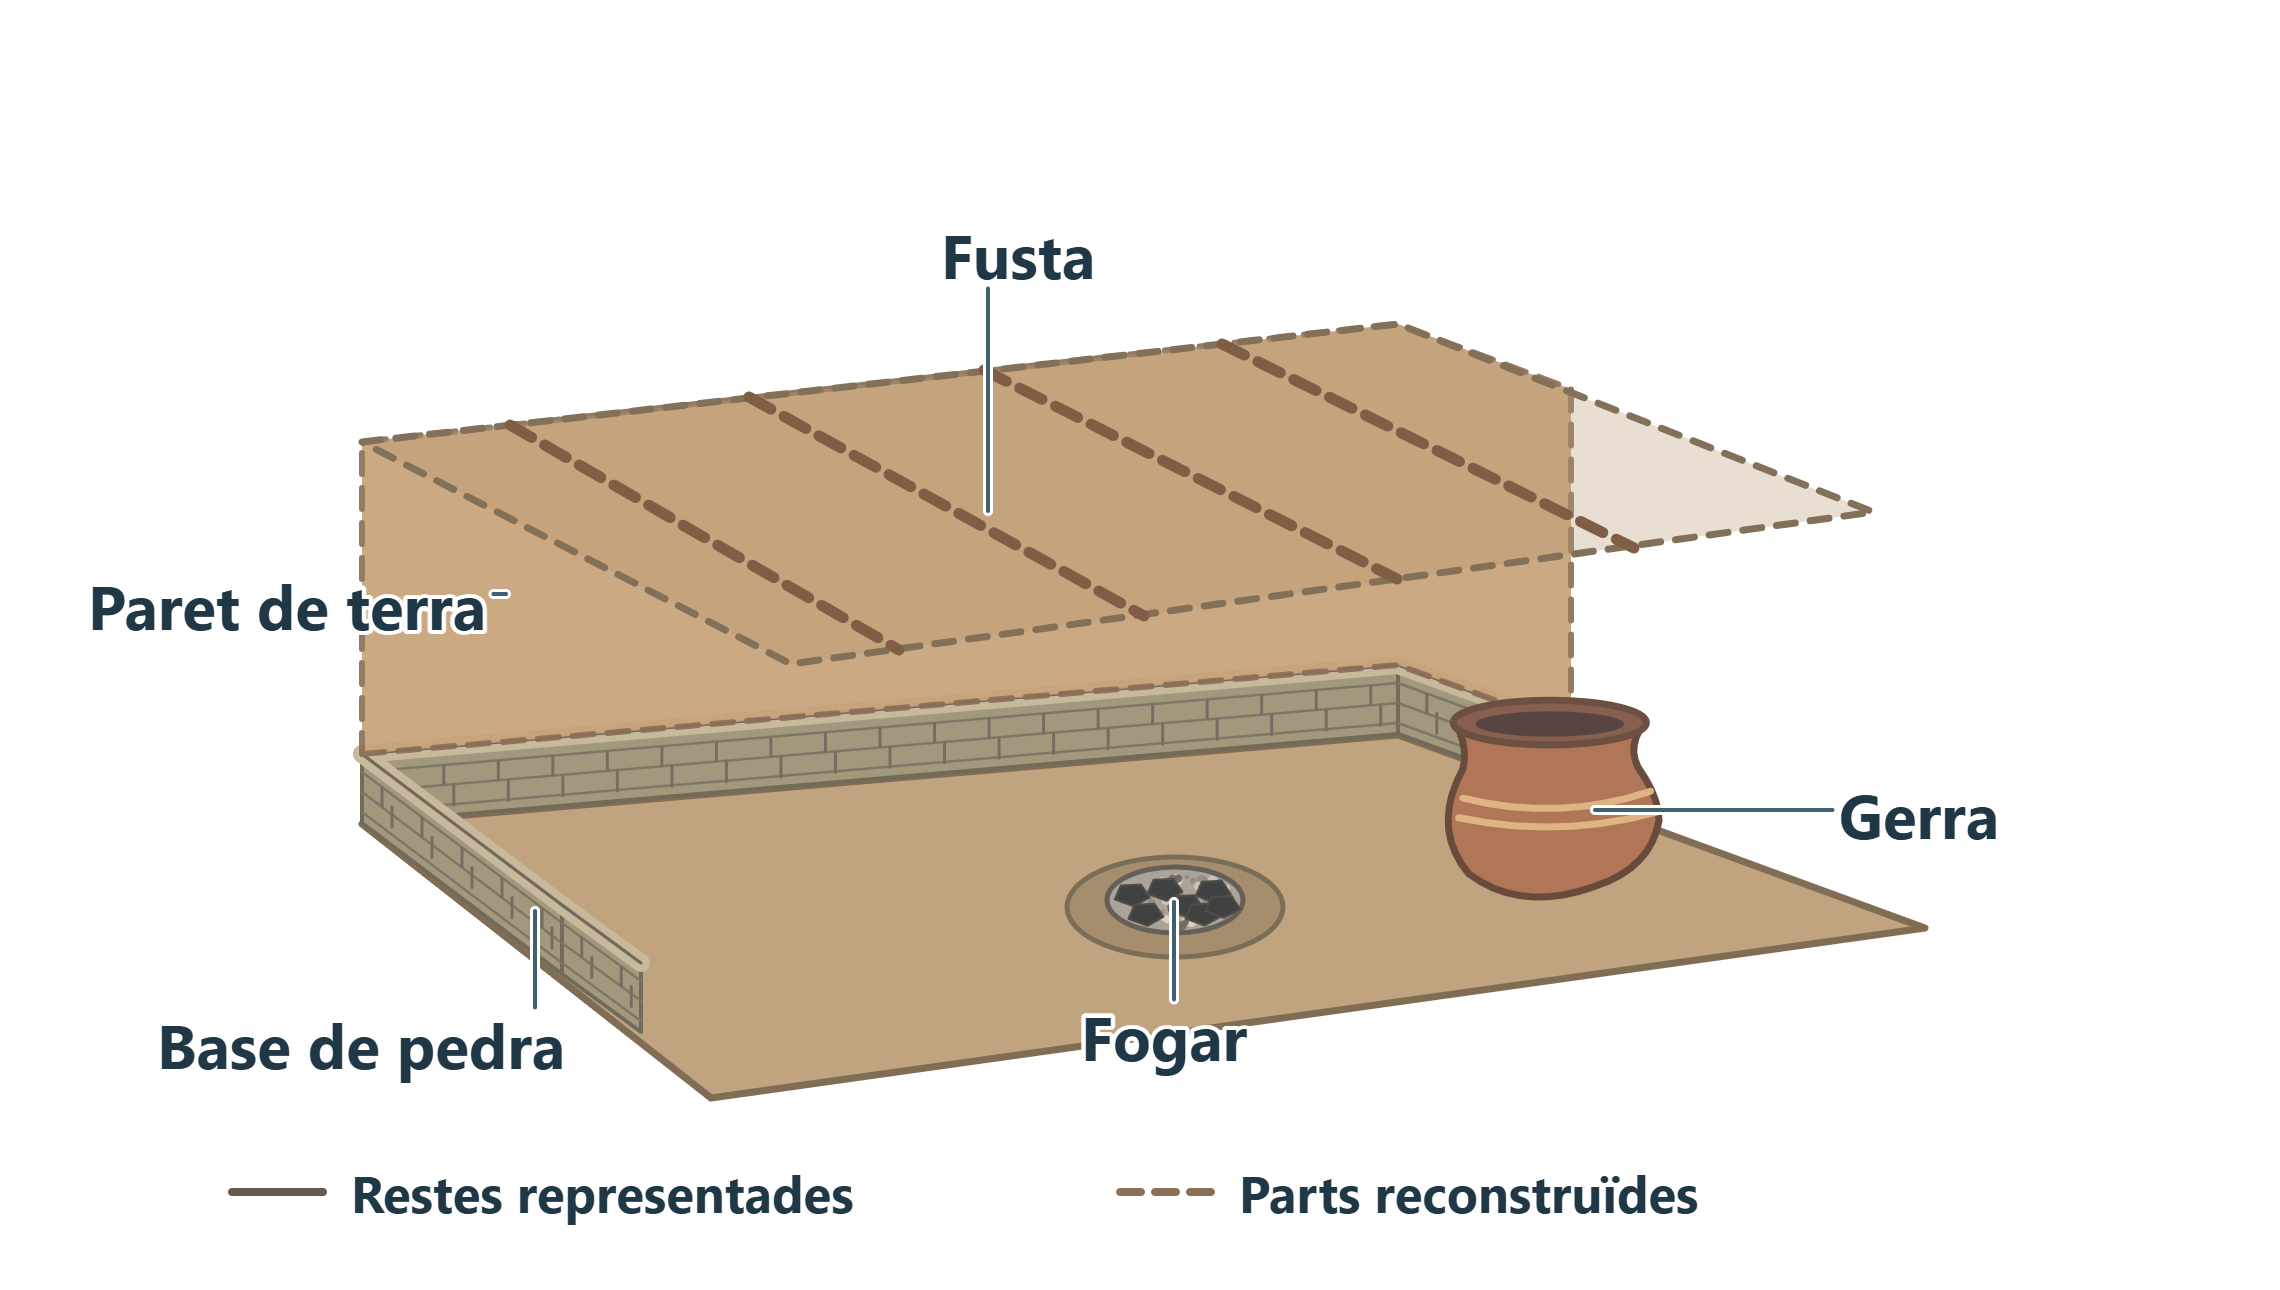
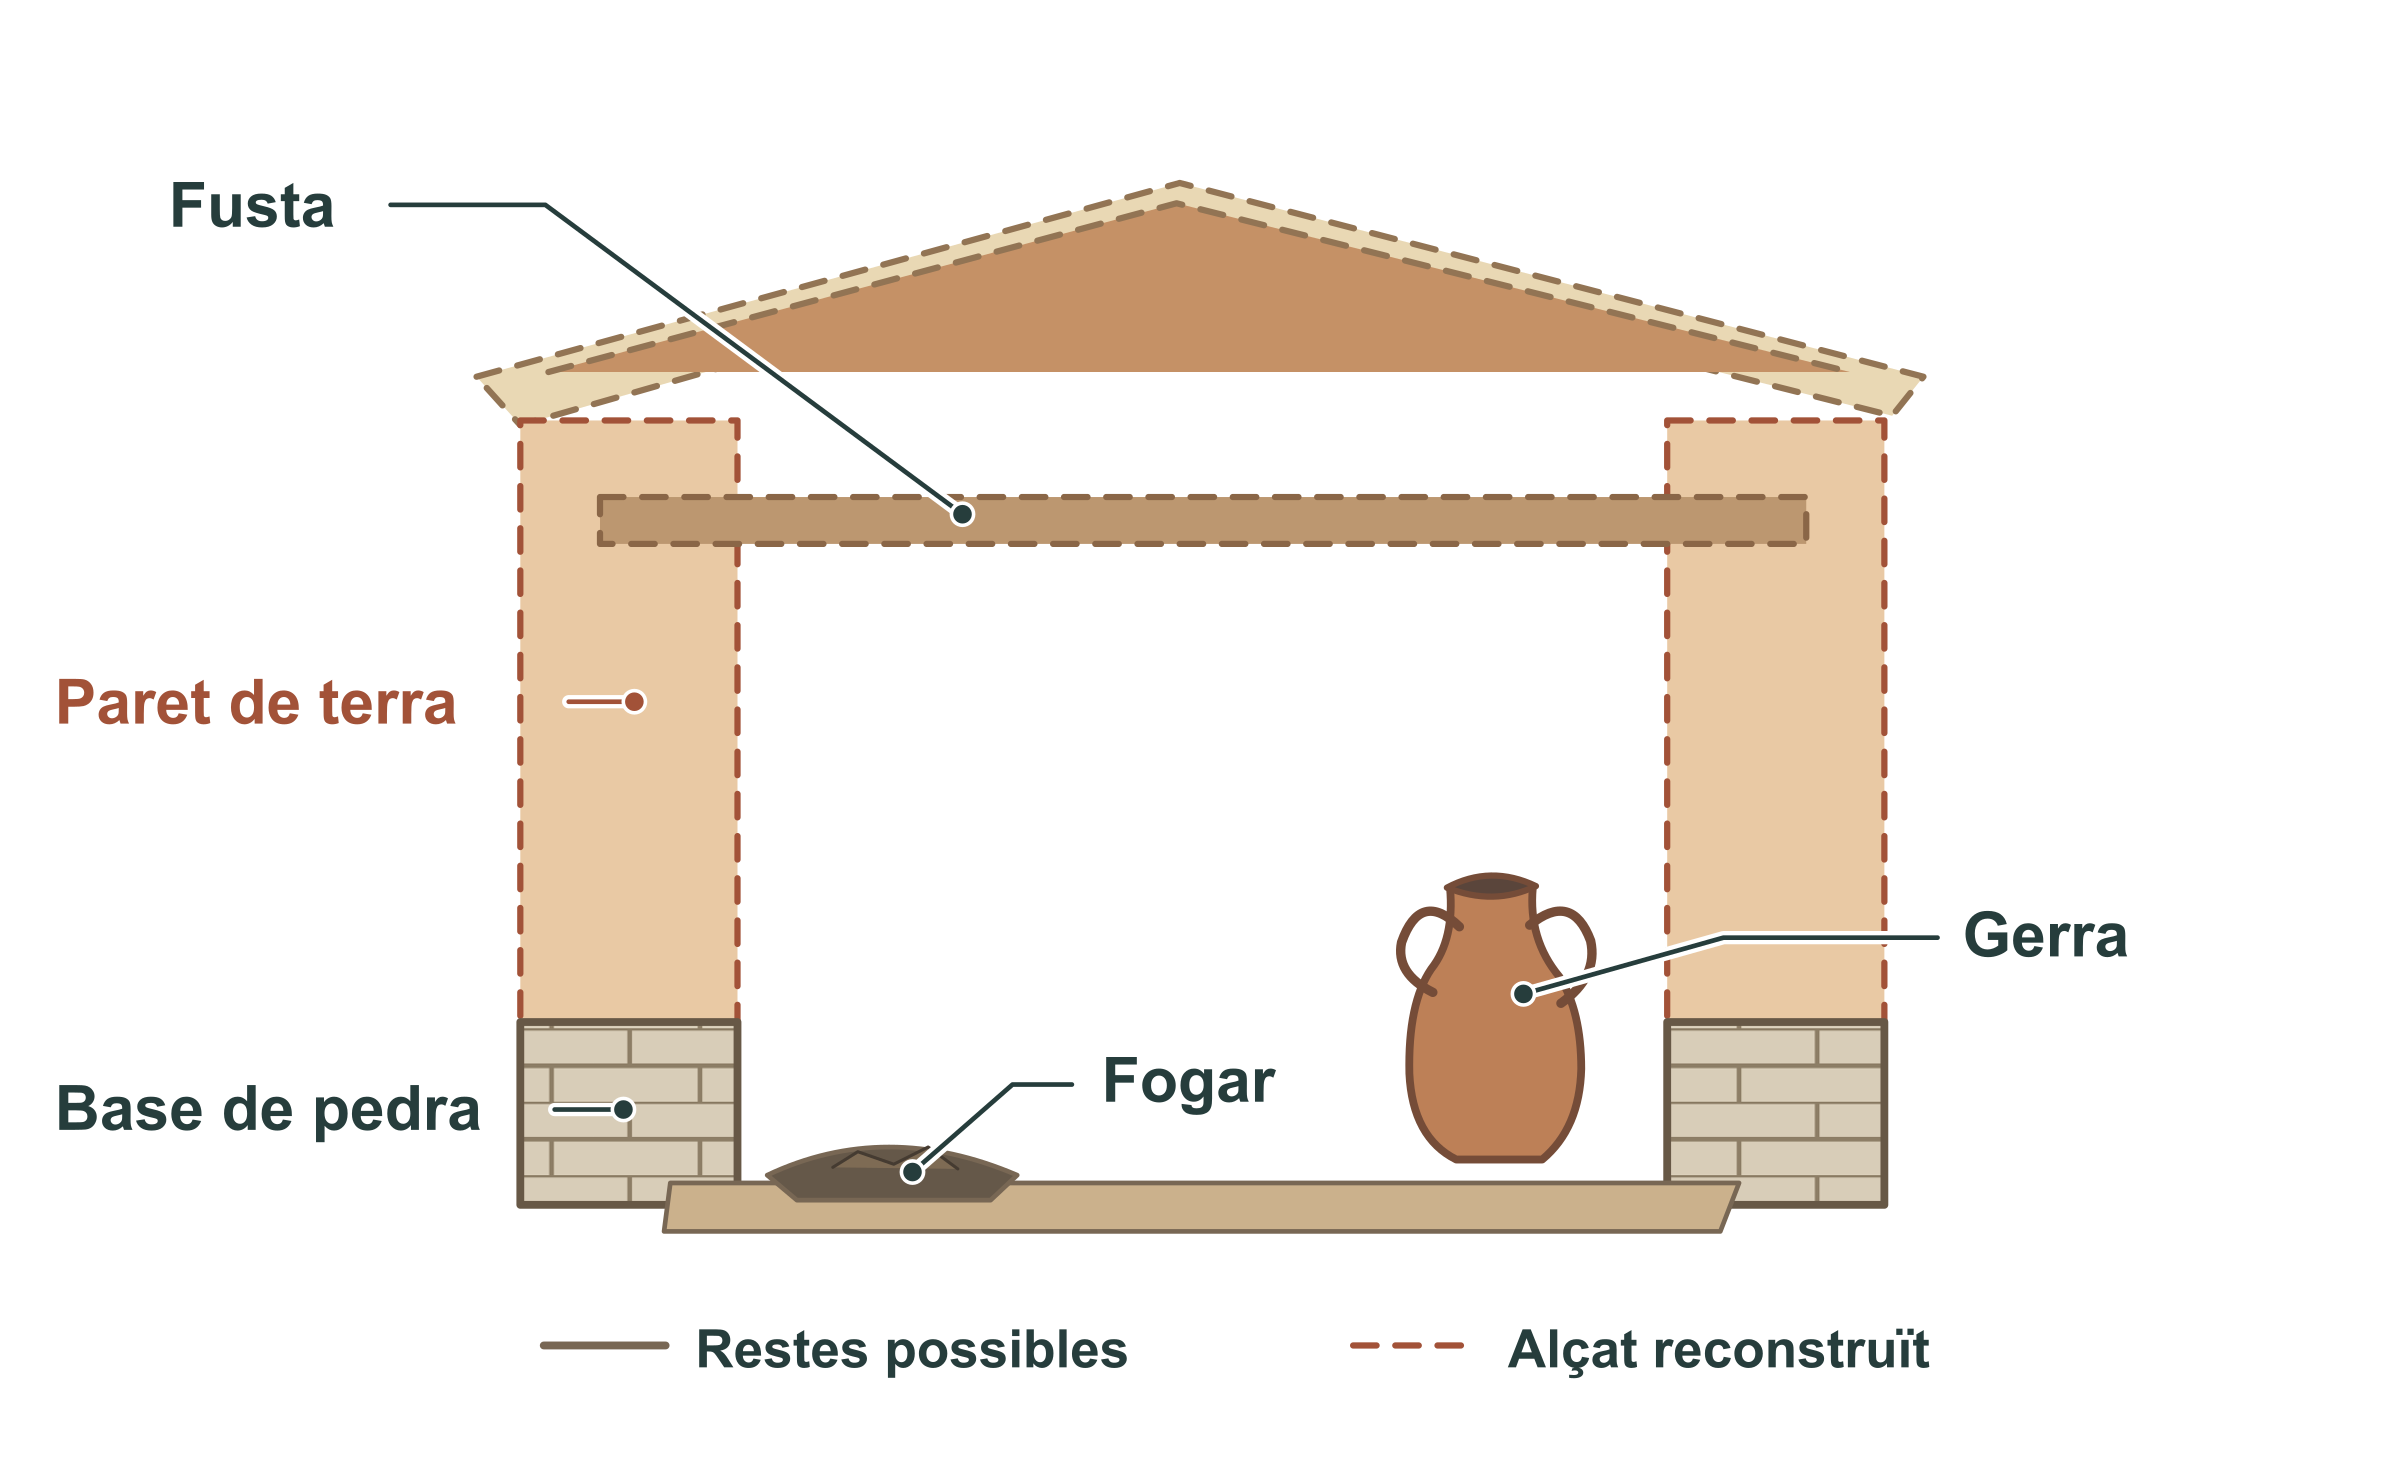
Renova la casa i les feines del taller de l’M025 (v0.1.94)

diff --git a/docs/continguts/terra-i-mapes.js b/docs/continguts/terra-i-mapes.js
@@ -1965,21 +1965,43 @@ window.quaderns ??= [];
       {
         id: 'interior-d-una-casa-iberica', section: 'cases', name: 'Què hi havia dins d’una casa?', ratio: 2280 / 1290,
         width: 100, position: 'center', wrap: false, anchor: 'lead',
-        alt: 'Tall de casa amb base de pedra, paret de terra i elements de fusta. A terra es distingeixen un fogar i una gerra. La part alta es marca amb traç discontinu.',
-        caption: 'Tall esquemàtic d’una casa ibèrica. El traç ple marca elements que es poden documentar i el discontinu, l’alçat reconstruït.',
         variants: {
-          pla: { src: 'illustracions/m025/interior-d-una-casa-iberica-pla.png', thumbnail: 'illustracions/m025/miniatures/interior-d-una-casa-iberica-pla.jpg' },
-          atles: { src: 'illustracions/m025/interior-d-una-casa-iberica-atles.png', thumbnail: 'illustracions/m025/miniatures/interior-d-una-casa-iberica-atles.jpg' },
+          pla: {
+            src: 'illustracions/m025/interior-d-una-casa-iberica-pla.png?v=0.1.94',
+            thumbnail: 'illustracions/m025/miniatures/interior-d-una-casa-iberica-pla.jpg?v=0.1.94',
+            ratio: 2400 / 1480,
+            alt: 'Secció amb la base de pedra, el fogar i una gerra. Un traç discontinu delimita les parets de terra i els elements de fusta reconstruïts.',
+            caption: 'El traç ple representa restes que es podrien trobar. El discontinu dibuixa una possible forma de la part alta de la casa.',
+          },
+          atles: {
+            src: 'illustracions/m025/interior-d-una-casa-iberica-atles.webp?v=0.1.94',
+            thumbnail: 'illustracions/m025/miniatures/interior-d-una-casa-iberica-atles.jpg?v=0.1.94',
+            ratio: 2400 / 1600,
+            alt: 'Interior reconstruït d’una casa ibèrica. Una persona cuina al fogar. Hi ha una gerra a la dreta i es veuen la base de pedra, les parets de terra i les bigues de fusta.',
+            caption: 'Reconstrucció didàctica inspirada en Ullastret. Localitza els materials de la casa i relaciona el fogar i la gerra amb les feines de cada dia.',
+            credit: 'Reconstrucció generada i retolada per a Món a mà.',
+          },
         },
       },
       {
         id: 'pistes-de-fosa-i-forja', section: 'metall', name: 'Quines pistes deixa un taller?', ratio: 2280 / 1170,
         width: 100, position: 'center', wrap: false, anchor: 'lead',
-        alt: 'La fosa es representa amb un motlle i una peça de bronze compatible. La forja mostra ferro a mig acabar amb marques, un martell i residus d’escòria.',
-        caption: 'Models de restes de taller. Compara la cavitat d’un motlle i les marques d’una peça de ferro. L’escòria s’interpreta amb les altres pistes del jaciment.',
         variants: {
-          pla: { src: 'illustracions/m025/pistes-de-fosa-i-forja-pla.png', thumbnail: 'illustracions/m025/miniatures/pistes-de-fosa-i-forja-pla.jpg' },
-          atles: { src: 'illustracions/m025/pistes-de-fosa-i-forja-atles.png', thumbnail: 'illustracions/m025/miniatures/pistes-de-fosa-i-forja-atles.jpg' },
+          pla: {
+            src: 'illustracions/m025/pistes-de-fosa-i-forja-pla.png?v=0.1.94',
+            thumbnail: 'illustracions/m025/miniatures/pistes-de-fosa-i-forja-pla.jpg?v=0.1.94',
+            ratio: 2400 / 1431,
+            alt: 'Dos grups de pistes. Al de fosa, una peça de bronze té la forma de la cavitat del motlle. Al de forja hi ha un martell, ferro a mig acabar i escòria.',
+            caption: 'Compara la cavitat del motlle i la peça de bronze. A la forja, busca les marques del ferro i relaciona l’escòria amb les altres pistes.',
+          },
+          atles: {
+            src: 'illustracions/m025/pistes-de-fosa-i-forja-atles.webp?v=0.1.94',
+            thumbnail: 'illustracions/m025/miniatures/pistes-de-fosa-i-forja-atles.jpg?v=0.1.94',
+            ratio: 2400 / 1319,
+            alt: 'Una artesana compara una peça de bronze amb un motlle obert. Un artesà treballa una peça de ferro a l’enclusa. Davant del taller es veu un grup de fragments d’escòria.',
+            caption: 'Dues escenes reconstruïdes. Relaciona cada feina amb les pistes que en podria trobar una excavació. Interpreta l’escòria amb la resta d’indicis.',
+            credit: 'Reconstrucció generada i retolada per a Món a mà.',
+          },
         },
       },
     ],

diff --git a/docs/index.html b/docs/index.html
@@ -7,17 +7,17 @@
   <title>Món a mà · Apunts i materials per explorar el medi</title>
   <link rel="icon" type="image/png" sizes="32x32" href="assets/favicon.png?v=0.1.4">
   <link rel="apple-touch-icon" href="assets/mon-a-ma.png?v=0.1.4">
-  <link rel="stylesheet" href="estils.css?v=0.1.93">
-  <script src="interficie.js?v=0.1.93" defer></script>
-  <script src="continguts/terra-i-mapes.js?v=0.1.93" defer></script>
-  <script src="continguts/variants-terra-i-mapes.js?v=0.1.93" defer></script>
-  <script src="continguts/temes-3r-cicle-2.js?v=0.1.93" defer></script>
-  <script src="imprimible.js?v=0.1.93" defer></script>
-  <script src="preferencies.js?v=0.1.93" defer></script>
-  <script src="continguts/curriculum.js?v=0.1.93" defer></script>
-  <script src="mapa-curricular.js?v=0.1.93" defer></script>
-  <script src="incidencies.js?v=0.1.93" defer></script>
-  <script src="app.js?v=0.1.93" defer></script>
+  <link rel="stylesheet" href="estils.css?v=0.1.94">
+  <script src="interficie.js?v=0.1.94" defer></script>
+  <script src="continguts/terra-i-mapes.js?v=0.1.94" defer></script>
+  <script src="continguts/variants-terra-i-mapes.js?v=0.1.94" defer></script>
+  <script src="continguts/temes-3r-cicle-2.js?v=0.1.94" defer></script>
+  <script src="imprimible.js?v=0.1.94" defer></script>
+  <script src="preferencies.js?v=0.1.94" defer></script>
+  <script src="continguts/curriculum.js?v=0.1.94" defer></script>
+  <script src="mapa-curricular.js?v=0.1.94" defer></script>
+  <script src="incidencies.js?v=0.1.94" defer></script>
+  <script src="app.js?v=0.1.94" defer></script>
 </head>
 <body>
   <a class="skip" href="#main">Ves al contingut</a>
@@ -328,7 +328,7 @@
         <button type="button" id="reset-user" title="Restableix els ajustos de totes les fitxes, les plantilles, les col·leccions i les imatges pròpies.">Restableix preferències</button>
         <span id="reset-user-status" role="status"></span>
         <a href="https://github.com/aaronFortuno/mon-a-ma/blob/main/license.md">MIT</a>
-        <button type="button" data-dialog="release" aria-haspopup="dialog" aria-label="v0.1.93 · Historial de versions">v0.1.93</button>
+        <button type="button" data-dialog="release" aria-haspopup="dialog" aria-label="v0.1.94 · Historial de versions">v0.1.94</button>
         <button type="button" data-dialog="about" aria-haspopup="dialog" aria-label="V4V · Sobre el projecte">V4V</button>
       </nav>
     </div>
@@ -339,6 +339,8 @@
       <form method="dialog"><button type="submit" class="icon-button" aria-label="Tanca" autofocus><svg viewBox="0 0 24 24" aria-hidden="true"><path d="m6 6 12 12M18 6 6 18"/></svg></button></form>
     </div>
     <div class="dialog-content">
+      <h3>v0.1.94</h3>
+      <ul><li>Renova la casa i les feines del taller de l’M025 amb seccions i peces en Pla i reconstruccions d’activitat en Atles.</li></ul>
       <h3>v0.1.93</h3>
       <ul>
         <li>Revisa les il·lustracions de l’M040 amb un mateix llogaret en planta i en vista elevada, quatre feines del cereal i tres formes de renda.</li>

diff --git a/CHANGELOG.md b/CHANGELOG.md
@@ -1,5 +1,9 @@
 # Historial de versions
 
+## 0.1.94 · 28 de novembre de 2026
+
+- Renova la casa i les feines del taller de l’M025 amb seccions i peces en Pla i reconstruccions d’activitat en Atles.
+
 ## 0.1.93 · 28 de novembre de 2026
 
 - Revisa les il·lustracions de l’M040 amb un mateix llogaret en planta i en vista elevada, quatre feines del cereal i tres formes de renda.
